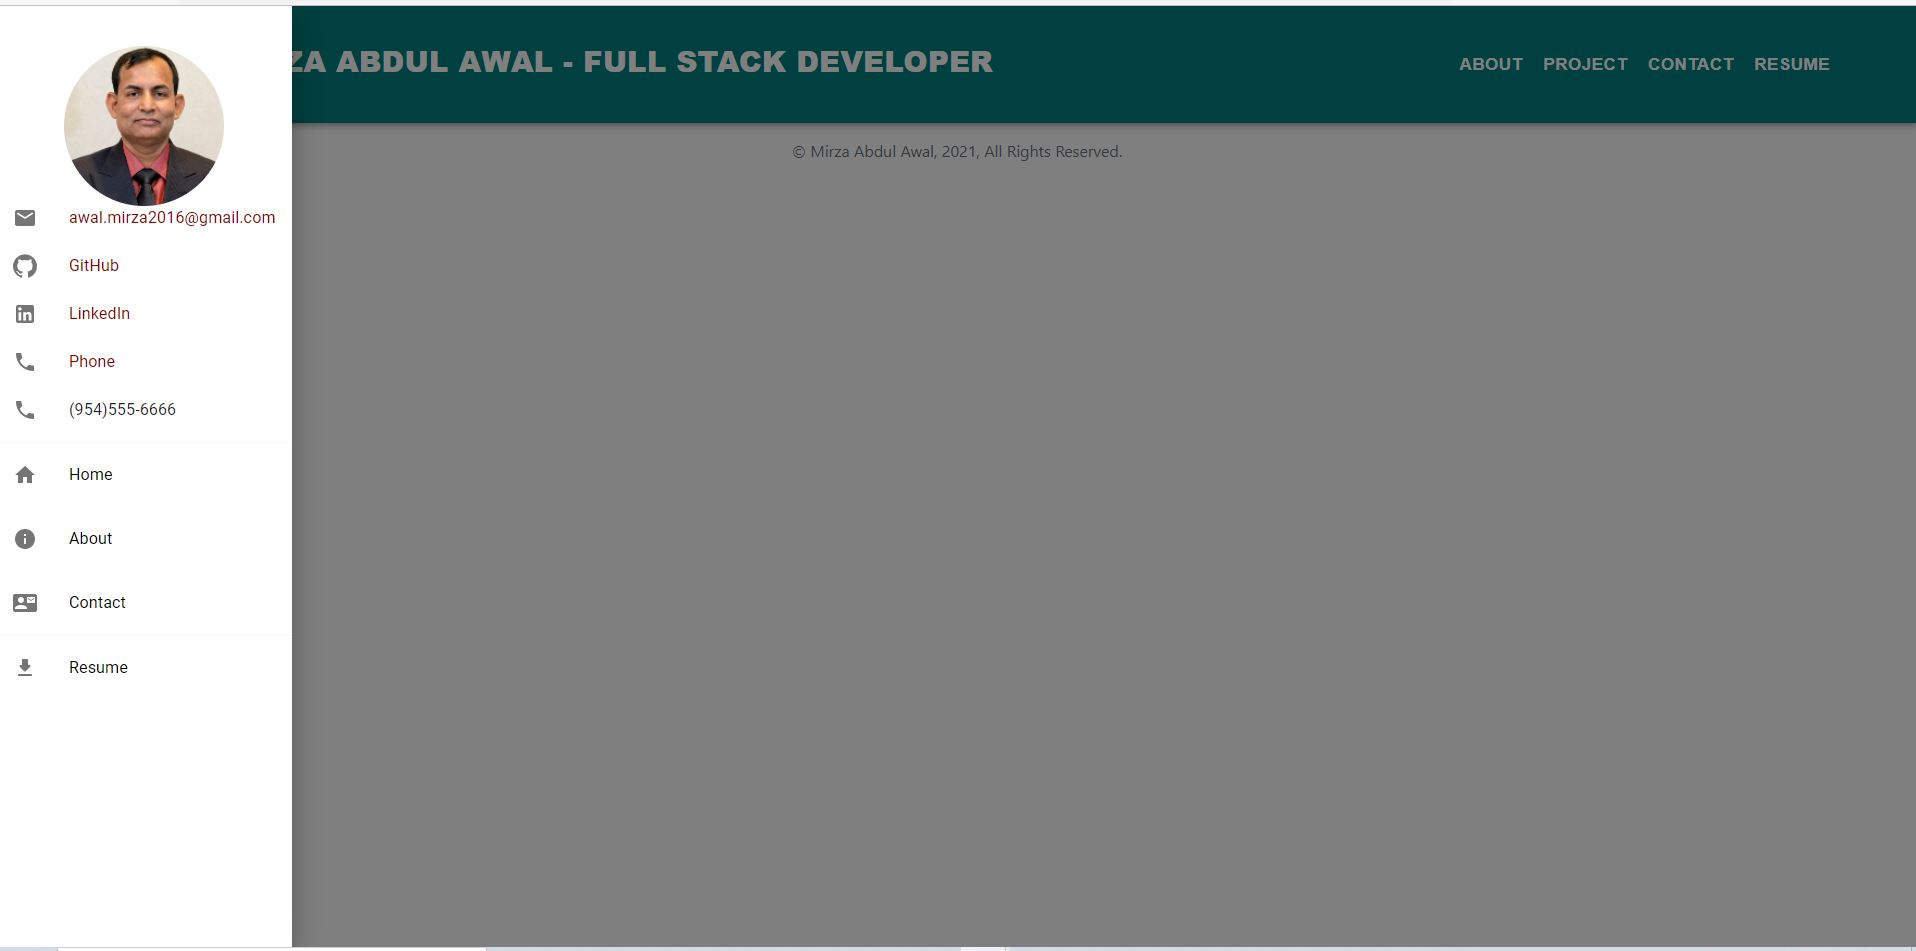
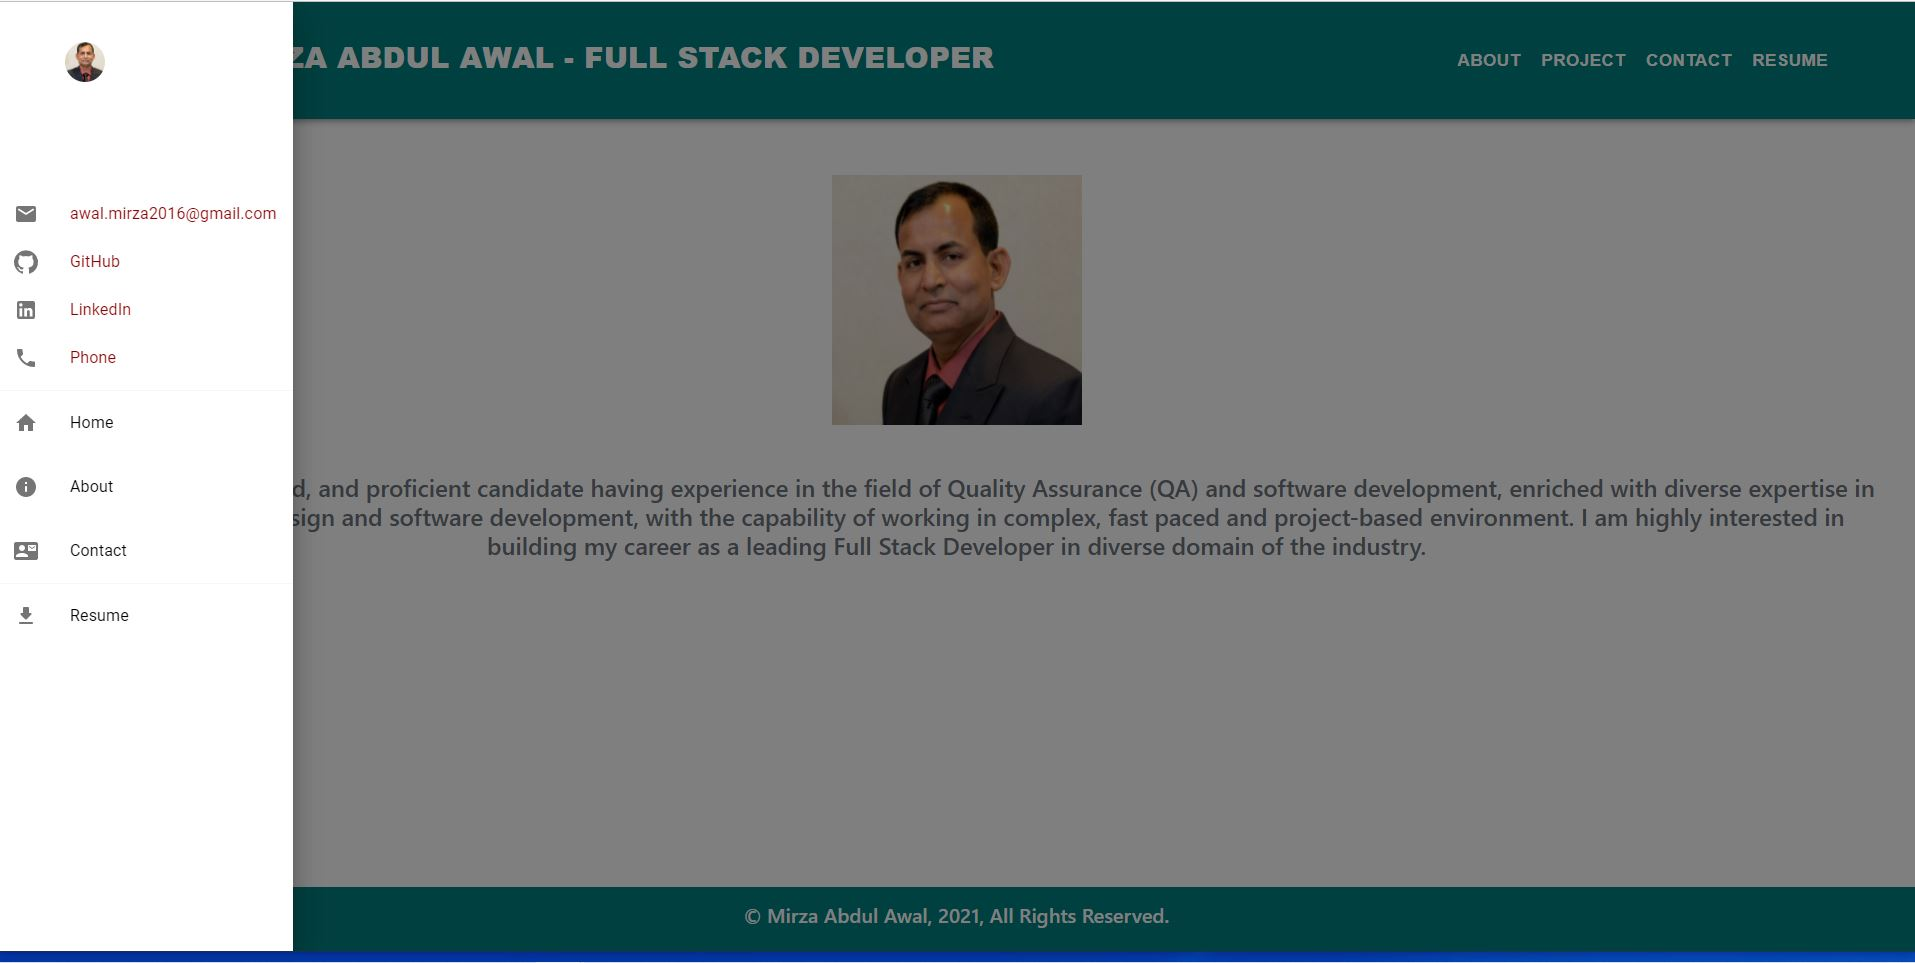
CSS updated

diff --git a/src/index.css b/src/index.css
@@ -1,4 +1,4 @@
-@media only screen and (max-width: 440px) {
+@media only screen and (max-width: 768px) {
       #root {
         width: fit-content;
         
